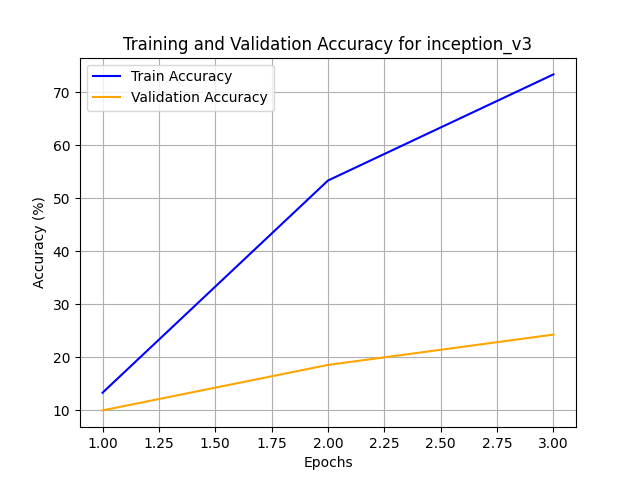
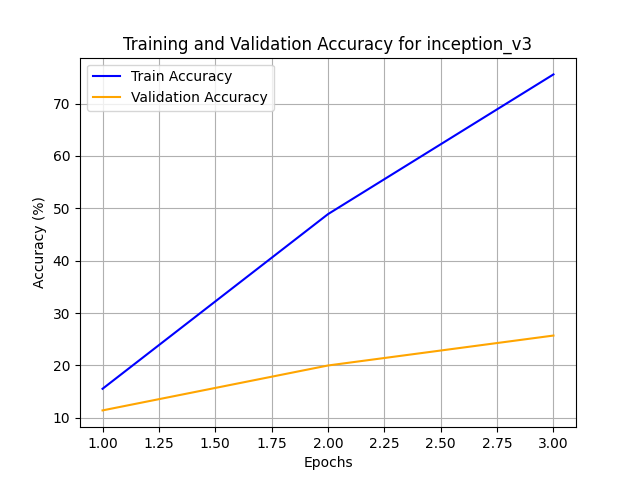
Update: add tuning hyperparameter

diff --git a/autotrain_allmodels.py b/autotrain_allmodels.py
@@ -8,7 +8,7 @@ from torchvision import datasets
 from src.fine_tuner import FineTuner
 from src.transform import Transform
 from src.visualization import Visualization
-from torch.optim import Adam, SGD, RMSprop  # Import RMSprop
+from torch.optim import Adam, SGD, RMSprop
 
 warnings.filterwarnings("ignore")
 
@@ -23,7 +23,7 @@ num_epochs = 3
 
 # for tuning
 learning_rates = [1e-3]
-optimizers = ['adam']
+optimizers = ['adam', 'sgd', 'rmsprop']
 
 results = {}
 
@@ -92,7 +92,7 @@ for model_name in models_to_finetune:
                 "training_time": training_time,
                 "hyperparameters": {
                     "optimizer": optimizer_name,
-                    "criterion": fine_tuner.criterion,
+                    "criterion": str(fine_tuner.criterion.__class__.__name__),
                     "learning_rate": learning_rate,
                     "batch_size": batch_size,
                     "num_epochs": num_epochs
